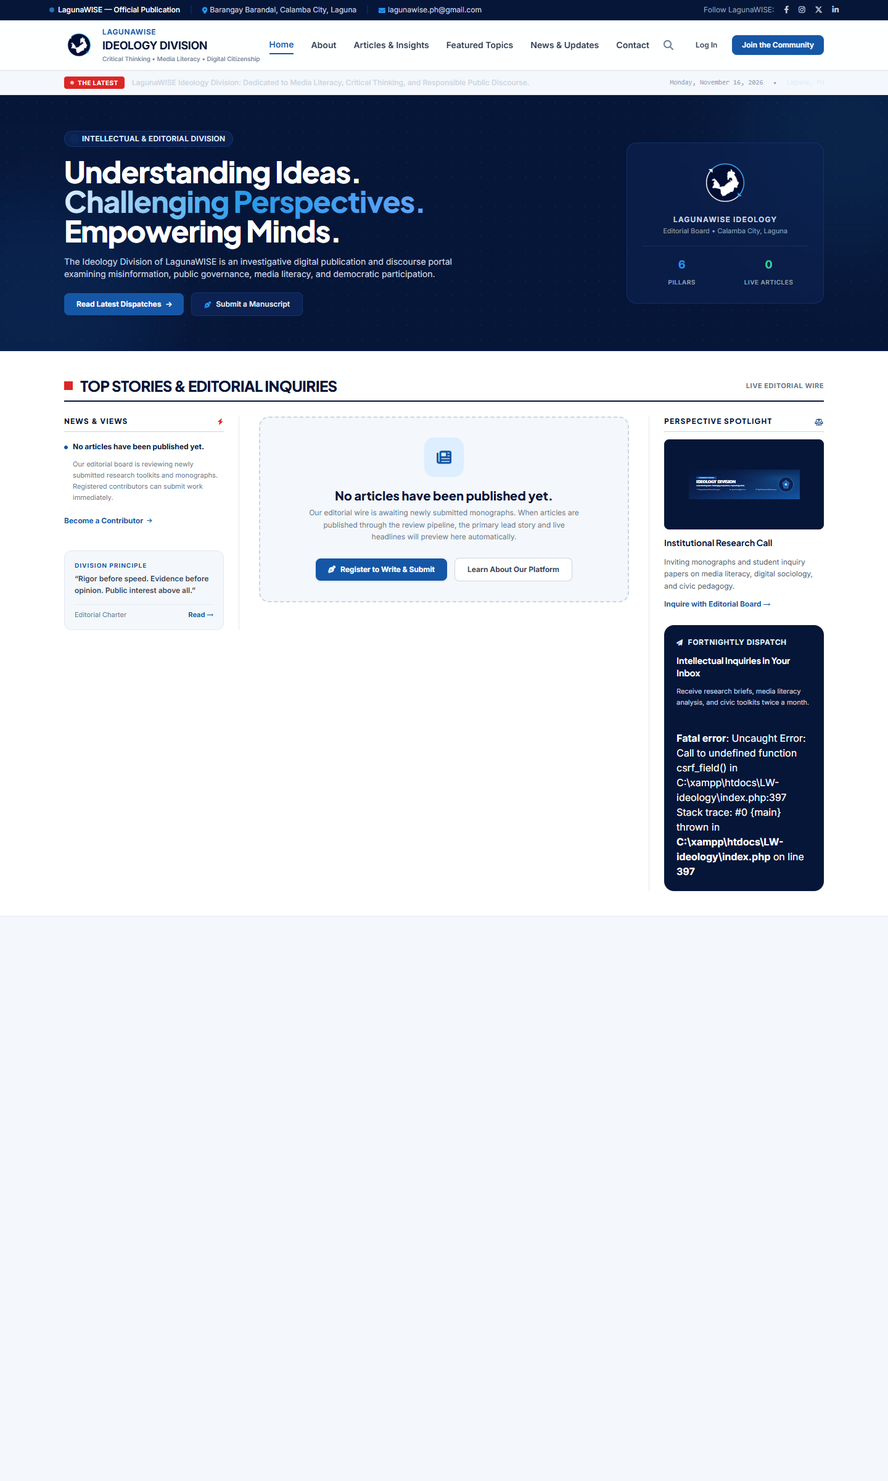
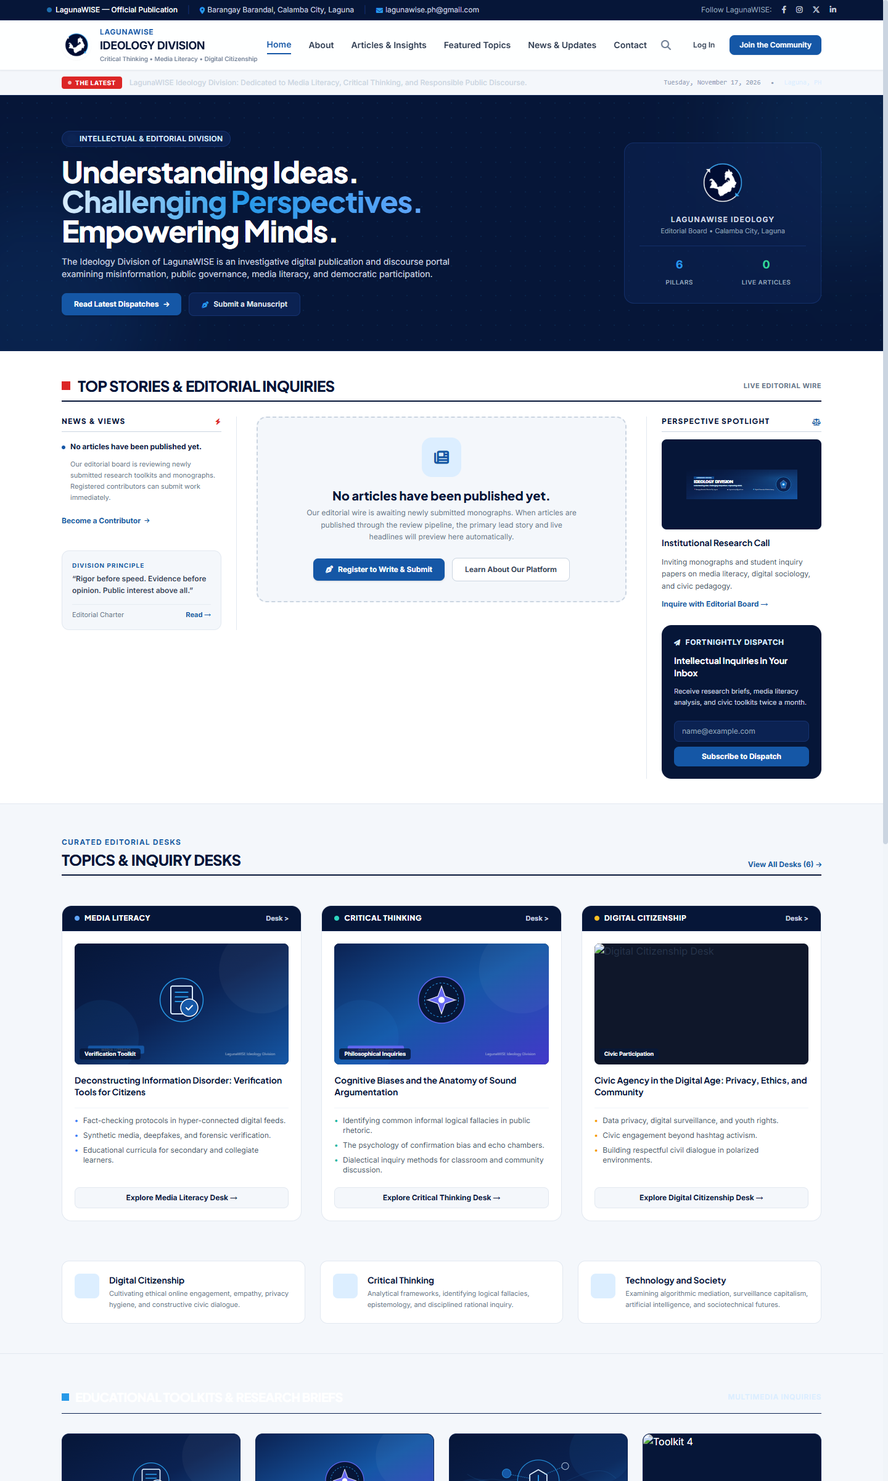
Fix csrf_field helper and implement comprehensive news-portal footer with direct links, governance, and organization info

diff --git a/includes/footer.php b/includes/footer.php
@@ -1,112 +1,198 @@
     </main>
 
-    <!-- Master Footer -->
-    <footer class="bg-navy-900 text-slate-300 border-t border-navy-800 pt-16 pb-12 mt-20">
+    <!-- Master News-Portal Footer (LagunaWISE Editorial Identity) -->
+    <footer class="bg-navy-950 text-slate-300 border-t border-navy-800 pt-16 pb-12 mt-20">
         <div class="max-w-7xl mx-auto px-4 sm:px-6">
-            <div class="grid grid-cols-1 md:grid-cols-2 lg:grid-cols-5 gap-10 pb-12 border-b border-navy-800">
+            
+            <!-- Top Footer Bar: Brand, Emblem, Wordmark, and Headquarters Details -->
+            <div class="grid grid-cols-1 lg:grid-cols-12 gap-8 pb-12 border-b border-navy-800 items-start">
                 
-                <!-- Col 1: Brand & Division Statement (2 cols wide on desktop) -->
-                <div class="lg:col-span-2 space-y-5">
-                    <div class="flex items-center gap-3">
+                <div class="lg:col-span-6 space-y-4">
+                    <div class="flex items-center gap-3.5">
                         <img src="<?= asset('assets/images/lagunawise-map-logo.png') ?>" 
                              alt="LagunaWISE Emblem" 
-                             class="w-12 h-12 object-contain rounded-full shadow-md">
+                             class="w-14 h-14 object-contain rounded-full shadow-lg border border-navy-700 bg-navy-900">
                         <div>
-                            <span class="block text-xs font-bold tracking-widest text-lwblue-light uppercase">LagunaWISE</span>
-                            <span class="text-xl font-extrabold text-white tracking-tight">IDEOLOGY DIVISION</span>
+                            <span class="block text-xs font-black tracking-widest text-lwblue-light uppercase">LagunaWISE</span>
+                            <span class="text-xl sm:text-2xl font-black text-white tracking-tight font-heading">IDEOLOGY DIVISION</span>
                         </div>
                     </div>
                     
-                    <p class="text-xs text-slate-400 leading-relaxed max-w-sm">
+                    <p class="text-xs text-slate-400 leading-relaxed max-w-lg">
                         <?= e(get_setting('division_statement', 'An intellectual and educational division of LagunaWISE dedicated to fostering critical thinking, media literacy, informed discussions, and responsible digital citizenship.')) ?>
                     </p>
 
-                    <!-- LagunaWISE Wordmark with Socials supplied visual reference -->
-                    <div class="pt-2">
-                        <div class="inline-block bg-white/95 rounded-lg p-2.5 shadow-sm border border-navy-700 max-w-xs">
+                    <div class="flex flex-wrap items-center gap-4 pt-1">
+                        <div class="inline-block bg-white/95 rounded-lg p-2 shadow-sm border border-navy-700">
                             <img src="<?= asset('assets/images/lagunawise-wordmark.png') ?>" 
-                                 alt="LagunaWISE Official Wordmark and Social Presence" 
-                                 class="h-8 object-contain">
+                                 alt="LagunaWISE Official Wordmark and Social Channels" 
+                                 class="h-7 object-contain">
                         </div>
+                        <span class="text-[11px] text-slate-400 italic">Official Digital Editorial Platform</span>
                     </div>
+                </div>
 
-                    <div class="text-xs text-slate-400 space-y-1.5 pt-1">
-                        <p class="flex items-center gap-2">
-                            <i class="fa-solid fa-location-dot text-lwblue-light w-4"></i>
-                            <span><?= e(get_setting('organization_location', 'Barangay Barandal, Calamba City, Laguna, Philippines')) ?></span>
+                <div class="lg:col-span-6 flex flex-col sm:flex-row sm:items-start justify-between lg:justify-end gap-6 text-xs text-slate-400">
+                    <div class="space-y-2.5">
+                        <span class="text-[11px] font-black uppercase tracking-wider text-slate-200 block">Headquarters &amp; Secretariat</span>
+                        <p class="flex items-start gap-2.5 max-w-xs">
+                            <i class="fa-solid fa-location-dot text-lwblue-light mt-0.5 shrink-0"></i>
+                            <span><?= e(get_setting('organization_location', 'Barangay Barandal, Calamba City, Laguna 4027, Philippines')) ?></span>
                         </p>
-                        <p class="flex items-center gap-2">
-                            <i class="fa-solid fa-envelope text-lwblue-light w-4"></i>
-                            <a href="mailto:<?= e(get_setting('contact_email', 'lagunawise.ph@gmail.com')) ?>" class="hover:text-white transition">
+                        <p class="flex items-center gap-2.5">
+                            <i class="fa-solid fa-envelope text-lwblue-light shrink-0"></i>
+                            <a href="mailto:<?= e(get_setting('contact_email', 'lagunawise.ph@gmail.com')) ?>" class="text-slate-300 hover:text-white transition">
                                 <?= e(get_setting('contact_email', 'lagunawise.ph@gmail.com')) ?>
                             </a>
                         </p>
                     </div>
+
+                    <div class="space-y-2.5">
+                        <span class="text-[11px] font-black uppercase tracking-wider text-slate-200 block">Connect &amp; Follow</span>
+                        <div class="flex items-center gap-2.5 text-sm">
+                            <a href="https://facebook.com" target="_blank" rel="noopener noreferrer" 
+                               class="w-8 h-8 rounded-lg bg-navy-850 border border-navy-700 flex items-center justify-center text-slate-300 hover:text-white hover:bg-lwblue transition">
+                                <i class="fa-brands fa-facebook-f text-xs"></i>
+                            </a>
+                            <a href="https://twitter.com" target="_blank" rel="noopener noreferrer" 
+                               class="w-8 h-8 rounded-lg bg-navy-850 border border-navy-700 flex items-center justify-center text-slate-300 hover:text-white hover:bg-lwblue transition">
+                                <i class="fa-brands fa-x-twitter text-xs"></i>
+                            </a>
+                            <a href="https://linkedin.com" target="_blank" rel="noopener noreferrer" 
+                               class="w-8 h-8 rounded-lg bg-navy-850 border border-navy-700 flex items-center justify-center text-slate-300 hover:text-white hover:bg-lwblue transition">
+                                <i class="fa-brands fa-linkedin-in text-xs"></i>
+                            </a>
+                            <a href="https://youtube.com" target="_blank" rel="noopener noreferrer" 
+                               class="w-8 h-8 rounded-lg bg-navy-850 border border-navy-700 flex items-center justify-center text-slate-300 hover:text-white hover:bg-red-600 transition">
+                                <i class="fa-brands fa-youtube text-xs"></i>
+                            </a>
+                        </div>
+                        <span class="text-[10px] text-slate-400 block">@lagunawise • Nonpartisan</span>
+                    </div>
                 </div>
 
-                <!-- Col 2: Navigation Links -->
-                <div>
-                    <h3 class="text-xs font-bold tracking-wider uppercase text-white mb-4">Division Platform</h3>
-                    <ul class="space-y-2.5 text-xs">
+            </div>
+
+            <!-- Multi-Column Direct Links Grid (CNN Newsportal Architecture) -->
+            <div class="grid grid-cols-2 md:grid-cols-3 lg:grid-cols-5 gap-8 py-12 border-b border-navy-800 text-xs">
+                
+                <!-- Col 1: Platform & Editorial Sections -->
+                <div class="space-y-3">
+                    <h3 class="text-xs font-black uppercase tracking-wider text-white flex items-center gap-2">
+                        <span class="w-1.5 h-1.5 rounded-full bg-lwblue-light"></span>
+                        <span>Platform</span>
+                    </h3>
+                    <ul class="space-y-2 text-slate-400">
                         <li><a href="<?= url() ?>" class="hover:text-white transition">Home Page</a></li>
                         <li><a href="<?= url('pages/about.php') ?>" class="hover:text-white transition">About the Division</a></li>
                         <li><a href="<?= url('pages/articles.php') ?>" class="hover:text-white transition">Articles &amp; Research</a></li>
-                        <li><a href="<?= url('pages/topics.php') ?>" class="hover:text-white transition">Featured Topics</a></li>
+                        <li><a href="<?= url('pages/topics.php') ?>" class="hover:text-white transition">Inquiry Desks</a></li>
                         <li><a href="<?= url('pages/news.php') ?>" class="hover:text-white transition">News &amp; Campaigns</a></li>
-                        <li><a href="<?= url('pages/contact.php') ?>" class="hover:text-white transition">Contact &amp; Partnerships</a></li>
+                        <li><a href="<?= url('pages/contact.php') ?>" class="hover:text-white transition">Contact &amp; Inquiries</a></li>
+                        <li><a href="<?= url('pages/sitemap.php') ?>" class="hover:text-white transition">Site Directory &amp; Map</a></li>
                     </ul>
                 </div>
 
-                <!-- Col 3: Research Topics -->
-                <div>
-                    <h3 class="text-xs font-bold tracking-wider uppercase text-white mb-4">Core Research Topics</h3>
-                    <ul class="space-y-2.5 text-xs">
+                <!-- Col 2: Core Inquiry Desks (Direct Topics) -->
+                <div class="space-y-3">
+                    <h3 class="text-xs font-black uppercase tracking-wider text-white flex items-center gap-2">
+                        <span class="w-1.5 h-1.5 rounded-full bg-blue-400"></span>
+                        <span>Inquiry Desks</span>
+                    </h3>
+                    <ul class="space-y-2 text-slate-400">
                         <li><a href="<?= url('pages/topic.php?slug=media-literacy') ?>" class="hover:text-white transition">Media &amp; Information Literacy</a></li>
-                        <li><a href="<?= url('pages/topic.php?slug=misinformation') ?>" class="hover:text-white transition">Misinformation Ecosystems</a></li>
-                        <li><a href="<?= url('pages/topic.php?slug=digital-citizenship') ?>" class="hover:text-white transition">Digital Citizenship &amp; Ethics</a></li>
                         <li><a href="<?= url('pages/topic.php?slug=critical-thinking') ?>" class="hover:text-white transition">Critical Thinking &amp; Fallacies</a></li>
-                        <li><a href="<?= url('pages/topic.php?slug=technology-and-society') ?>" class="hover:text-white transition">Technology &amp; Artificial Intelligence</a></li>
-                        <li><a href="<?= url('pages/topic.php?slug=social-issues') ?>" class="hover:text-white transition">Contemporary Social Issues</a></li>
+                        <li><a href="<?= url('pages/topic.php?slug=digital-citizenship') ?>" class="hover:text-white transition">Digital Citizenship &amp; Ethics</a></li>
+                        <li><a href="<?= url('pages/topic.php?slug=informed-discourse') ?>" class="hover:text-white transition">Informed Public Discourse</a></li>
+                        <li><a href="<?= url('pages/topic.php?slug=youth-civic-engagement') ?>" class="hover:text-white transition">Youth Civic Engagement</a></li>
+                        <li><a href="<?= url('pages/topic.php?slug=ethical-technology') ?>" class="hover:text-white transition">Ethical Tech &amp; AI</a></li>
+                        <li><a href="<?= url('pages/topic.php?slug=community-research') ?>" class="hover:text-white transition">Community Research</a></li>
                     </ul>
                 </div>
 
-                <!-- Col 4: Newsletter Subscription in Footer -->
-                <div>
-                    <h3 class="text-xs font-bold tracking-wider uppercase text-white mb-3">Editorial Dispatch</h3>
-                    <p class="text-xs text-slate-400 mb-3 leading-relaxed">
-                        Receive curated research briefs, community toolkits, and civic analysis directly to your inbox.
+                <!-- Col 3: Editorial Standards & Governance -->
+                <div class="space-y-3">
+                    <h3 class="text-xs font-black uppercase tracking-wider text-white flex items-center gap-2">
+                        <span class="w-1.5 h-1.5 rounded-full bg-teal-400"></span>
+                        <span>Governance</span>
+                    </h3>
+                    <ul class="space-y-2 text-slate-400">
+                        <li><a href="<?= url('pages/about.php#editorial-charter') ?>" class="hover:text-white transition">Editorial Charter</a></li>
+                        <li><a href="<?= url('pages/about.php#governance') ?>" class="hover:text-white transition">Institutional Governance</a></li>
+                        <li><a href="<?= url('pages/about.php#ethics') ?>" class="hover:text-white transition">Code of Journalistic Ethics</a></li>
+                        <li><a href="<?= url('pages/about.php#peer-review') ?>" class="hover:text-white transition">Peer-Review Framework</a></li>
+                        <li><a href="<?= url('pages/about.php#corrections') ?>" class="hover:text-white transition">Fact-Checking &amp; Corrections</a></li>
+                        <li><a href="<?= url('pages/about.php#citations') ?>" class="hover:text-white transition">Academic Citations Standard</a></li>
+                        <li><a href="<?= url('tests/index.php') ?>" class="hover:text-white transition flex items-center gap-1.5">
+                            <span class="w-1.5 h-1.5 rounded-full bg-emerald-400"></span>
+                            <span>System QA Test Suite</span>
+                        </a></li>
+                    </ul>
+                </div>
+
+                <!-- Col 4: Contributor & Writing Pipeline -->
+                <div class="space-y-3">
+                    <h3 class="text-xs font-black uppercase tracking-wider text-white flex items-center gap-2">
+                        <span class="w-1.5 h-1.5 rounded-full bg-amber-400"></span>
+                        <span>Contributors</span>
+                    </h3>
+                    <ul class="space-y-2 text-slate-400">
+                        <li><a href="<?= url('auth/register.php') ?>" class="text-lwblue-light font-bold hover:underline">Register as Contributor</a></li>
+                        <li><a href="<?= url('auth/login.php') ?>" class="hover:text-white transition">Sign In to Dashboard</a></li>
+                        <li><a href="<?= url('pages/dashboard.php') ?>" class="hover:text-white transition">Contributor Dashboard</a></li>
+                        <li><a href="<?= url('admin/article-create.php') ?>" class="hover:text-white transition">Draft New Manuscript</a></li>
+                        <li><a href="<?= url('admin/submissions.php') ?>" class="hover:text-white transition">Editorial Review Queue</a></li>
+                        <li><a href="<?= url('admin/index.php') ?>" class="hover:text-white transition">Administrative Portal</a></li>
+                        <li><a href="<?= url('pages/contact.php') ?>" class="hover:text-white transition">Partnerships &amp; Symposia</a></li>
+                    </ul>
+                </div>
+
+                <!-- Col 5: Fortnightly Dispatch Newsletter Box -->
+                <div class="col-span-2 sm:col-span-1 space-y-3">
+                    <h3 class="text-xs font-black uppercase tracking-wider text-white flex items-center gap-2">
+                        <span class="w-1.5 h-1.5 rounded-full bg-red-400"></span>
+                        <span>Dispatch</span>
+                    </h3>
+                    <p class="text-xs text-slate-400 leading-relaxed">
+                        Curated research briefs, verification fieldbooks, and civic dispatches twice a month.
                     </p>
                     <form action="<?= url('actions/newsletter-action.php') ?>" method="POST" class="space-y-2" id="footerNewsletterForm">
-                        <?= Security::csrfField() ?>
+                        <?= csrf_field() ?>
                         <div class="relative">
                             <input type="email" 
                                    name="email" 
                                    required 
-                                   placeholder="Your email address" 
-                                   class="w-full text-xs px-3.5 py-2.5 bg-navy-800 border border-navy-700 rounded-lg text-white placeholder-slate-500 focus:outline-none focus:border-lwblue-light focus:ring-1 focus:ring-lwblue-light">
+                                   placeholder="name@example.com" 
+                                   class="w-full text-xs px-3.5 py-2.5 bg-navy-900 border border-navy-700 rounded-lg text-white placeholder-slate-500 focus:outline-hidden focus:border-lwblue-light">
                         </div>
-                        <button type="submit" class="w-full text-xs font-bold py-2.5 bg-lwblue hover:bg-lwblue-hover text-white rounded-lg transition duration-150 flex items-center justify-center gap-2">
+                        <button type="submit" class="w-full text-xs font-bold py-2.5 bg-lwblue hover:bg-lwblue-hover text-white rounded-lg transition duration-150 flex items-center justify-center gap-2 shadow">
                             <span>Subscribe to Dispatch</span>
                             <i class="fa-solid fa-paper-plane text-[10px]"></i>
                         </button>
                     </form>
-                    <p class="text-[10px] text-slate-400 mt-2">Zero spam. Nonpartisan, educational dispatches only.</p>
+                    <p class="text-[10px] text-slate-500">Zero spam. Nonpartisan, educational dispatches only.</p>
                 </div>
 
             </div>
 
-            <!-- Bottom Legal Bar -->
-            <div class="pt-8 flex flex-col md:flex-row justify-between items-center gap-4 text-xs text-slate-400">
+            <!-- Bottom Legal & Compliance Strip -->
+            <div class="pt-8 flex flex-col md:flex-row justify-between items-center gap-4 text-xs text-slate-500">
                 <div class="text-center md:text-left">
                     <p><?= e(get_setting('footer_copyright', '© 2026 LagunaWISE Ideology Division. All rights reserved. Intellectual and educational nonpartisan publication.')) ?></p>
                 </div>
-                <div class="flex items-center gap-6">
-                    <a href="<?= url('pages/about.php#editorial-charter') ?>" class="hover:text-slate-200 transition">Editorial Charter</a>
-                    <a href="<?= url('pages/about.php#privacy') ?>" class="hover:text-slate-200 transition">Privacy Policy</a>
-                    <a href="<?= url('pages/about.php#terms') ?>" class="hover:text-slate-200 transition">Terms of Use</a>
-                    <a href="<?= url('admin/index.php') ?>" class="text-slate-400 hover:text-slate-200 transition">Staff Portal</a>
+                <div class="flex flex-wrap items-center justify-center gap-5 text-[11px]">
+                    <a href="<?= url('pages/about.php#editorial-charter') ?>" class="hover:text-slate-300 transition">Editorial Charter</a>
+                    <span>•</span>
+                    <a href="<?= url('pages/about.php#privacy') ?>" class="hover:text-slate-300 transition">Privacy Policy</a>
+                    <span>•</span>
+                    <a href="<?= url('pages/about.php#terms') ?>" class="hover:text-slate-300 transition">Terms of Service</a>
+                    <span>•</span>
+                    <a href="<?= url('pages/sitemap.php') ?>" class="hover:text-slate-300 transition">Sitemap</a>
+                    <span>•</span>
+                    <a href="<?= url('admin/index.php') ?>" class="text-slate-400 hover:text-slate-200 transition">Staff CMS</a>
                 </div>
             </div>
+
         </div>
     </footer>
 
@@ -183,70 +269,43 @@
                     if (e.key === 'Escape' && !searchModal.classList.contains('hidden')) {
                         closeSearch();
                     }
-                    // Cmd+K or Ctrl+K shortcut
-                    if ((e.metaKey || e.ctrlKey) && e.key === 'k') {
-                        e.preventDefault();
-                        if (searchModal.classList.contains('hidden')) {
-                            openSearch();
-                        } else {
-                            closeSearch();
-                        }
-                    }
                 });
             }
 
-            // Interactive Bookmark AJAX Handler
-            document.querySelectorAll('.bookmark-toggle-btn').forEach(button => {
-                button.addEventListener('click', async function(e) {
+            // AJAX Newsletter Subscription
+            const newsletterForm = document.getElementById('footerNewsletterForm');
+            if (newsletterForm) {
+                newsletterForm.addEventListener('submit', function(e) {
                     e.preventDefault();
-                    const articleId = this.getAttribute('data-article-id');
-                    const csrfToken = document.querySelector('meta[name="csrf-token"]')?.content || '<?= Security::getCsrfToken() ?>';
+                    const formData = new FormData(newsletterForm);
+                    const submitBtn = newsletterForm.querySelector('button[type="submit"]');
+                    const originalBtnContent = submitBtn.innerHTML;
 
-                    if (!articleId) return;
+                    submitBtn.disabled = true;
+                    submitBtn.innerHTML = '<i class="fa-solid fa-spinner fa-spin text-xs"></i> <span>Subscribing...</span>';
 
-                    try {
-                        const response = await fetch('<?= url("actions/bookmark-action.php") ?>', {
-                            method: 'POST',
-                            headers: {
-                                'Content-Type': 'application/x-www-form-urlencoded',
-                                'X-Requested-With': 'XMLHttpRequest'
-                            },
-                            body: new URLSearchParams({
-                                'article_id': articleId,
-                                'csrf_token': csrfToken
-                            })
-                        });
-
-                        const data = await response.json();
-
-                        if (data.status === 'unauthorized') {
-                            window.location.href = '<?= url("auth/login.php") ?>?redirect=' + encodeURIComponent(window.location.pathname + window.location.search);
-                            return;
+                    fetch(newsletterForm.action, {
+                        method: 'POST',
+                        body: formData,
+                        headers: {
+                            'X-Requested-With': 'XMLHttpRequest'
                         }
-
-                        if (data.status === 'success') {
-                            const icon = this.querySelector('i');
-                            const label = this.querySelector('.bookmark-label');
-                            if (data.action === 'bookmarked') {
-                                if (icon) {
-                                    icon.classList.remove('fa-regular');
-                                    icon.classList.add('fa-solid', 'text-amber-500');
-                                }
-                                if (label) label.textContent = 'Bookmarked';
-                            } else {
-                                if (icon) {
-                                    icon.classList.remove('fa-solid', 'text-amber-500');
-                                    icon.classList.add('fa-regular');
-                                }
-                                if (label) label.textContent = 'Bookmark';
-                            }
+                    })
+                    .then(res => res.json())
+                    .then(data => {
+                        if (data.success) {
+                            newsletterForm.innerHTML = '<div class="p-3 bg-emerald-900/60 border border-emerald-700 text-emerald-200 text-xs rounded-lg flex items-center gap-2"><i class="fa-solid fa-check text-xs"></i><span>' + (data.message || 'Thank you for subscribing to our dispatch.') + '</span></div>';
+                        } else {
+                            alert(data.error || 'Subscription failed. Please check your email address and try again.');
+                            submitBtn.disabled = false;
+                            submitBtn.innerHTML = originalBtnContent;
                         }
-                    } catch (err) {
-                        console.error('Bookmark toggle error:', err);
-                    }
+                    })
+                    .catch(err => {
+                        newsletterForm.submit();
+                    });
                 });
-            });
-
+            }
         });
     </script>
 </body>

diff --git a/includes/functions.php b/includes/functions.php
@@ -14,6 +14,20 @@ function e(?string $string): string {
 }
 
 /**
+ * Render hidden HTML input for CSRF protection
+ */
+function csrf_field(): string {
+    return Security::csrfField();
+}
+
+/**
+ * Get current CSRF token string
+ */
+function csrf_token(): string {
+    return Security::getCsrfToken();
+}
+
+/**
  * Generate full URL based on application base path
  */
 function url(string $path = ''): string {
